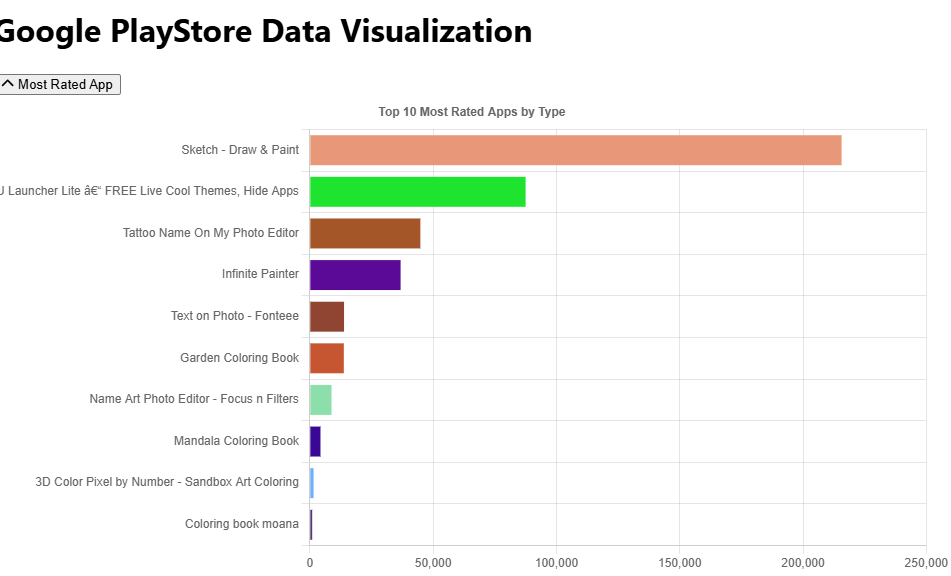
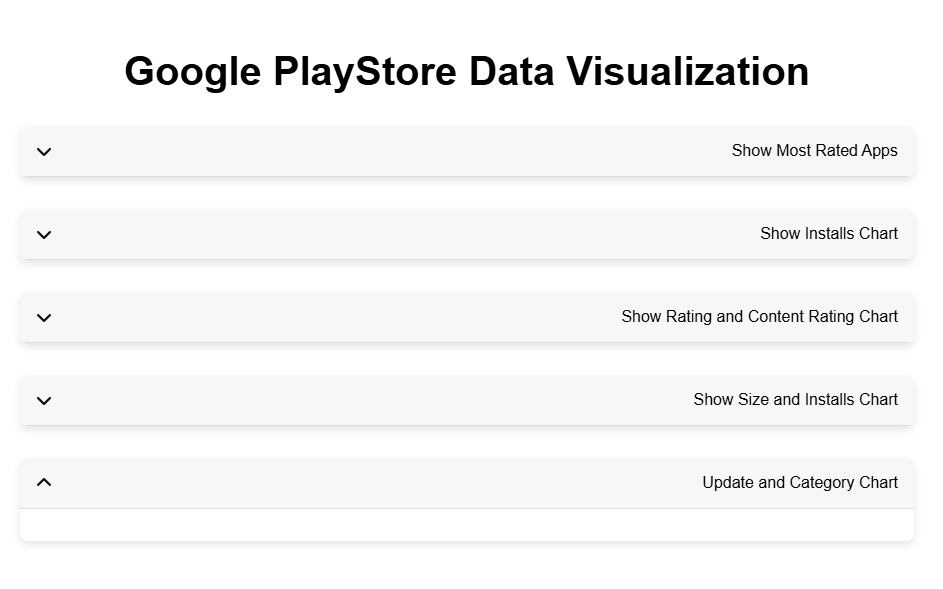
commit

diff --git a/src/App.js b/src/App.js
@@ -6,6 +6,7 @@ import SizeInstallsChart from './components/SizeInstallsChart';
 import appData from './data.json';
 import { FontAwesomeIcon } from '@fortawesome/react-fontawesome';
 import { faChevronDown, faChevronUp } from '@fortawesome/free-solid-svg-icons';
+import './App.css'; // Import CSS file for styling
 
 // Helper function to convert size string to number (in MB)
 const parseSize = (size) => {
@@ -102,63 +103,70 @@ const App = () => {
   };
 
   return (
-    <div className="p-6">
-      <h1 className="text-2xl font-bold mb-4 text-center">Google PlayStore Data Visualization</h1>
+    <div className="dashboard">
+      <h1 className="dashboard-title">Google PlayStore Data Visualization</h1>
 
-      {/* Most Rated Apps Chart */}
-      <div className="mb-4 flex items-center justify-center cursor-pointer" onClick={toggleMostRatedVisibility}>
-        <FontAwesomeIcon icon={isMostRatedVisible ? faChevronUp : faChevronDown} className="mr-2" />
-        <span>{isMostRatedVisible ? 'Most Rated Apps' : 'Show Most Rated Apps'}</span>
-      </div>
-      {isMostRatedVisible && (
-        <div className="w-full lg:w-1/2 p-4 mx-auto">
-          <MostRatedAppsChart chartData={chartData} />
+      <div className="charts-container">
+        <div className="chart-section">
+          <div className="chart-header" onClick={toggleMostRatedVisibility}>
+            <FontAwesomeIcon icon={isMostRatedVisible ? faChevronUp : faChevronDown} className="toggle-icon" />
+            <span>{isMostRatedVisible ? 'Most Rated Apps' : 'Show Most Rated Apps'}</span>
+          </div>
+          {isMostRatedVisible && (
+            <div className="chart">
+              <MostRatedAppsChart chartData={chartData} />
+            </div>
+          )}
         </div>
-      )}
 
-      {/* Installs Chart */}
-      <div className="mb-4 flex items-center justify-center cursor-pointer" onClick={toggleInstallsVisibility}>
-        <FontAwesomeIcon icon={isInstallsVisible ? faChevronUp : faChevronDown} className="mr-2" />
-        <span>{isInstallsVisible ? 'Installs Chart' : 'Show Installs Chart'}</span>
-      </div>
-      {isInstallsVisible && (
-        <div className="w-full lg:w-1/2 p-4 mx-auto">
-          <InstallsChart />
+        <div className="chart-section">
+          <div className="chart-header" onClick={toggleInstallsVisibility}>
+            <FontAwesomeIcon icon={isInstallsVisible ? faChevronUp : faChevronDown} className="toggle-icon" />
+            <span>{isInstallsVisible ? 'Installs Chart' : 'Show Installs Chart'}</span>
+          </div>
+          {isInstallsVisible && (
+            <div className="chart">
+              <InstallsChart />
+            </div>
+          )}
         </div>
-      )}
 
-      {/* Rating and Content Rating Chart */}
-      <div className="mb-4 flex items-center justify-center cursor-pointer" onClick={toggleRatingContentVisibility}>
-        <FontAwesomeIcon icon={isRatingContentVisible ? faChevronUp : faChevronDown} className="mr-2" />
-        <span>{isRatingContentVisible ? 'Rating and Content Rating Chart' : 'Show Rating and Content Rating Chart'}</span>
-      </div>
-      {isRatingContentVisible && (
-        <div className="w-full lg:w-1/2 p-4 mx-auto">
-          <RatingContentChart />
+        <div className="chart-section">
+          <div className="chart-header" onClick={toggleRatingContentVisibility}>
+            <FontAwesomeIcon icon={isRatingContentVisible ? faChevronUp : faChevronDown} className="toggle-icon" />
+            <span>{isRatingContentVisible ? 'Rating and Content Rating Chart' : 'Show Rating and Content Rating Chart'}</span>
+          </div>
+          {isRatingContentVisible && (
+            <div className="chart">
+              <RatingContentChart />
+            </div>
+          )}
         </div>
-      )}
 
-      {/* Size and Installs Chart */}
-      <div className="mb-4 flex items-center justify-center cursor-pointer" onClick={toggleSizeInstallsVisibility}>
-        <FontAwesomeIcon icon={isSizeInstallsVisible ? faChevronUp : faChevronDown} className="mr-2" />
-        <span>{isSizeInstallsVisible ? 'Size and Installs Chart' : 'Show Size and Installs Chart'}</span>
-      </div>
-      {isSizeInstallsVisible && (
-        <div className="w-full lg:w-1/2 p-4 mx-auto">
-          <SizeInstallsChart />
+        <div className="chart-section">
+          <div className="chart-header" onClick={toggleSizeInstallsVisibility}>
+            <FontAwesomeIcon icon={isSizeInstallsVisible ? faChevronUp : faChevronDown} className="toggle-icon" />
+            <span>{isSizeInstallsVisible ? 'Size and Installs Chart' : 'Show Size and Installs Chart'}</span>
+          </div>
+          {isSizeInstallsVisible && (
+            <div className="chart">
+              <SizeInstallsChart />
+            </div>
+          )}
         </div>
-      )}
 
-      {/* Update and Category Chart */}
-      <div className="mb-4 flex items-center justify-center cursor-pointer" onClick={toggleUpdateCategoryVisibility}>
-        <FontAwesomeIcon icon={isUpdateCategoryVisible ? faChevronUp : faChevronDown} className="mr-2" />
-        <span>{isUpdateCategoryVisible ? 'Update and Category Chart' : 'Show Update and Category Chart'}</span>
-      </div>
-      {isUpdateCategoryVisible && (
-        <div className="w-full lg:w-1/2 p-4 mx-auto">
-       
+        <div className="chart-section">
+          <div className="chart-header" onClick={toggleUpdateCategoryVisibility}>
+            <FontAwesomeIcon icon={isUpdateCategoryVisible ? faChevronUp : faChevronDown} className="toggle-icon" />
+            <span>{isUpdateCategoryVisible ? 'Update and Category Chart' : 'Show Update and Category Chart'}</span>
+          </div>
+          {isUpdateCategoryVisible && (
+            <div className="chart">
+            
+            </div>
+          )}
         </div>
-      )}
+      </div>
     </div>
   );
 };

diff --git a/src/App.css b/src/App.css
@@ -1,38 +1,50 @@
-.App {
+.dashboard {
+  padding: 2rem;
+  font-family: Arial, sans-serif;
+}
+
+.dashboard-title {
   text-align: center;
+  font-size: 2.5rem;
+  margin-bottom: 2rem;
 }
 
-.App-logo {
-  height: 40vmin;
-  pointer-events: none;
-}
-
-@media (prefers-reduced-motion: no-preference) {
-  .App-logo {
-    animation: App-logo-spin infinite 20s linear;
-  }
-}
-
-.App-header {
-  background-color: #282c34;
-  min-height: 100vh;
+.charts-container {
   display: flex;
   flex-direction: column;
-  align-items: center;
+  gap: 2rem;
   justify-content: center;
-  font-size: calc(10px + 2vmin);
-  color: white;
+  align-items: center;
 }
 
-.App-link {
-  color: #61dafb;
+.chart-section {
+  width: 100%;
+  max-width: 100%;
+  background: #fff;
+  box-shadow: 0 4px 8px rgba(0,0,0,0.1);
+  border-radius: 8px;
+  overflow: hidden;
 }
 
-@keyframes App-logo-spin {
-  from {
-    transform: rotate(0deg);
-  }
-  to {
-    transform: rotate(360deg);
-  }
+.chart-header {
+  padding: 1rem;
+  background: #f7f7f7;
+  border-bottom: 1px solid #ddd;
+  cursor: pointer;
+  display: flex;
+  align-items: center;
+  justify-content: space-between;
+}
+
+.chart-header:hover {
+  background: #e7e7e7;
+}
+
+.toggle-icon {
+  margin-right: 0.5rem;
+}
+
+.chart {
+  padding: 1rem;
+  width: 100%;
 }

diff --git a/README.md b/README.md
@@ -3,6 +3,12 @@
 This project provides visualizations of data for applications downloaded from the app store. It is built using JavaScript, HTML, and CSS.
 ## interface OverView
 ![Example Image](./public/capt1.png)
+![Example Image](./public/capt2.png)
+![Example Image](./public/capt3.png)
+![Example Image](./public/capt4.png)
+![Example Image](./public/capt5.png)
+![Example Image](./public/capt6.png)
+![Example Image](./public/capt7.png)
 ## Features
 
 - Interactive charts and graphs to analyze app data
